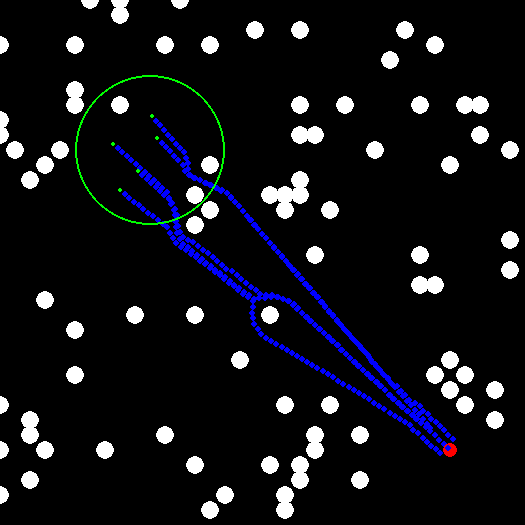
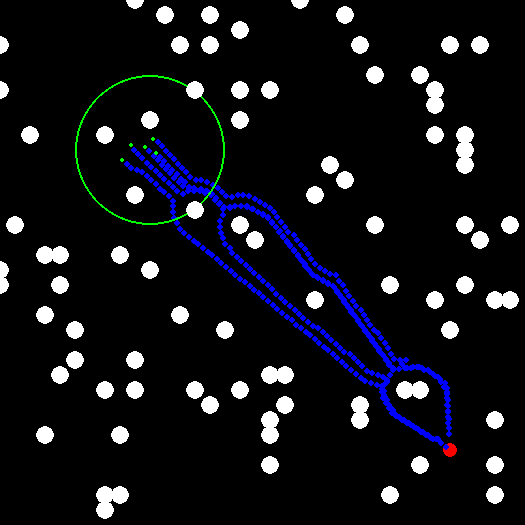
Added approach 2 and 3 of repelling force between agents

diff --git a/agent_algorithms/multi_agent_rapf.py b/agent_algorithms/multi_agent_rapf.py
@@ -1,6 +1,6 @@
 import numpy as np
 
-def pos_update(agent, environment, setup, agent_positions): 
+def pos_update(agent, environment, setup, agent_positions, implementation): 
     # Step 1: Isolate all (artificial) obstacles and agents that are within the view range
     obstacles_in_range = []
     agents_in_range = []
@@ -18,6 +18,7 @@ def pos_update(agent, environment, setup, agent_positions):
             agents_in_range.append(other_agent)
 
     # Step 2: Define potential field equation
+    starting_distance_to_target = ((setup.target_x - setup.agents_start_x)**2 + (setup.target_y - setup.agents_start_y)**2) ** 0.5
     def potential_field(x, y):
         target_potential = - setup.alpha_t * np.exp(-setup.mu_t * ((setup.target_x - x)**2 + (setup.target_y - y)**2))
         obstacle_potential = 0
@@ -30,8 +31,18 @@ def pos_update(agent, environment, setup, agent_positions):
                 obstacle_potential += setup.alpha_o * np.exp(-setup.mu_o * distance_squared)
         for other_agent in agents_in_range:
             distance = ((x - other_agent[0]) ** 2 + (y - other_agent[1]) ** 2) ** 0.5
-            if distance < agent.radius * 2 * 1.5: # Added 50% safety margin (still needs to be decided how to handle things properly)
-                agent_potential = float('inf')
+            if implementation == 1 or implementation == 2 or implementation == 3:
+                if distance < agent.radius * 2 * 1.5: # Added 50% safety margin (still needs to be decided how to handle things properly)
+                    agent_potential = float('inf')
+            if implementation == 2:
+                if distance < setup.agent_influence_radius:
+                    agent_potential += setup.alpha_a * np.exp(-setup.mu_a * distance**2)
+            if implementation == 3:
+                distance_to_target = ((setup.target_x - other_agent[0])**2 + (setup.target_y - other_agent[1])**2) ** 0.5
+                relative_distance_to_target = distance_to_target / starting_distance_to_target
+                if distance < setup.agent_influence_radius:
+                    agent_potential += 2 * relative_distance_to_target * setup.alpha_a * np.exp(-setup.mu_a * distance**2)
+
         return target_potential + obstacle_potential + agent_potential
 
     # Step 3: Set bacteria points, find the minimum potential

diff --git a/Agent.py b/Agent.py
@@ -121,7 +121,11 @@ class Agent:
                 self.astar_init = True
             self.x, self.y = a_star.pos_update(self, environment, setup)
         if self.algorithm == 5:
-            self.x, self.y = multi_agent_rapf.pos_update(self, environment, setup, agent_positions)
+            self.x, self.y = multi_agent_rapf.pos_update(self, environment, setup, agent_positions, 1)
+        if self.algorithm == 6:
+            self.x, self.y = multi_agent_rapf.pos_update(self, environment, setup, agent_positions, 2)
+        if self.algorithm == 7:
+            self.x, self.y = multi_agent_rapf.pos_update(self, environment, setup, agent_positions, 3)
         
         #Append new location to the history list 
         self.pos_lst.append((self.x, self.y))

diff --git a/Setup.py b/Setup.py
@@ -58,7 +58,7 @@ class Setup:
 
         #--------------Hyperparameter-------------------------
 
-        # Simulation Hyperparameter values (from https://ieeexplore-ieee-org.tudelft.idm.oclc.org/document/10115857)
+        # Simulation Hyperparameter values
         self.range = 8
         self.obst_radius_inner = 0.6
         self.obst_radius_outer = 4.5
@@ -66,6 +66,9 @@ class Setup:
         self.mu_t = 0.002
         self.alpha_o = 8
         self.mu_o = 1.5
+        self.alpha_a = 5  
+        self.mu_a = 0.2
+        self.agent_influence_radius = 4.5
 
         #------------Simulation--------------------------------
 

diff --git a/main.py b/main.py
@@ -8,8 +8,9 @@ import math
 
 #---------Change setup settings if not standard settings----------
 
-algorithm = 5
+algorithm = 7
 setup = Setup(algorithm)
+setup.obstacle_density = 0.15
 
 setup.nr_agents = 5
 setup.start_radius = 5
